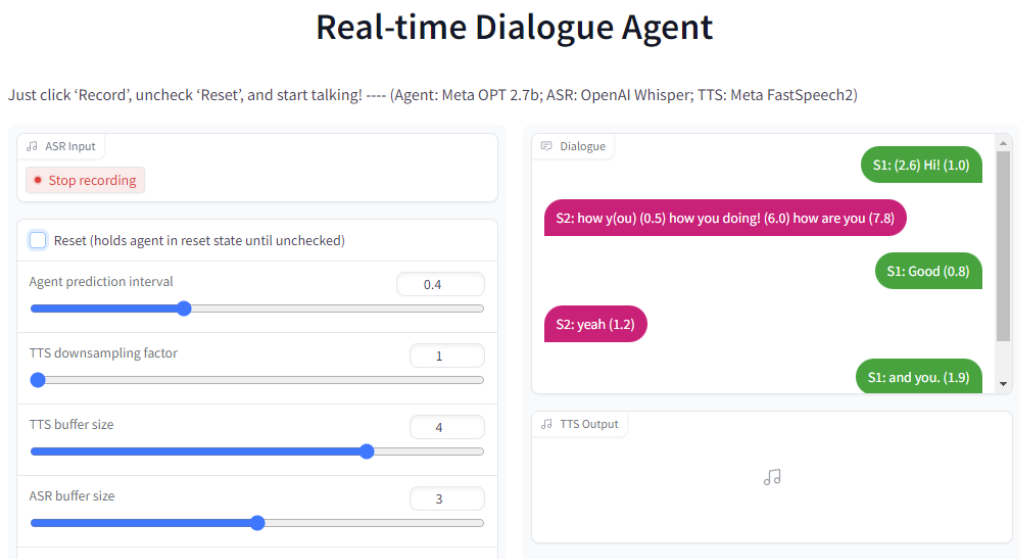
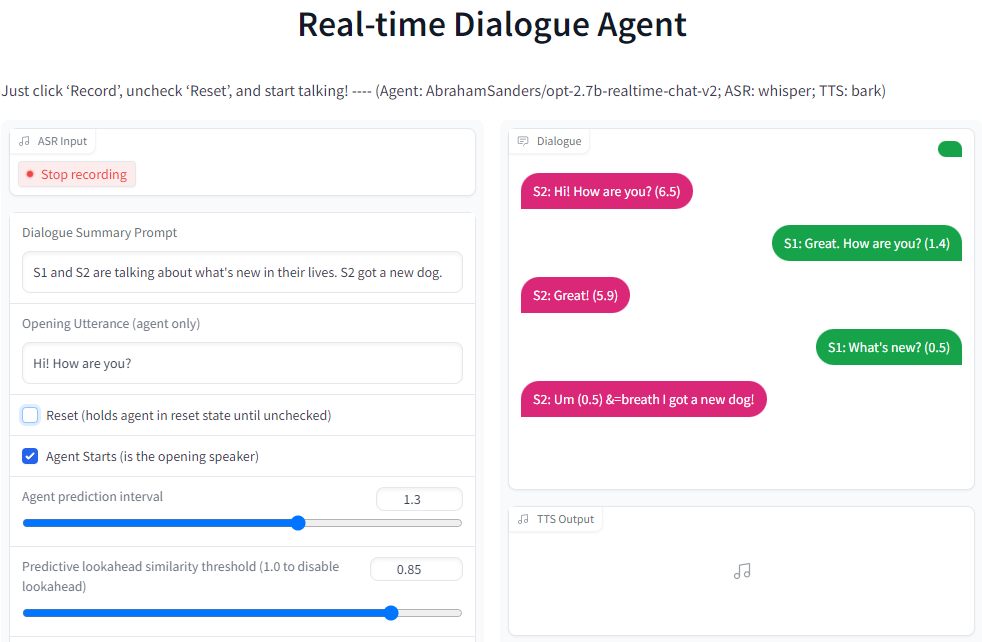
Update readme and requirements

diff --git a/README.md b/README.md
@@ -1,13 +1,15 @@
 # realtime-chatbot
-**A real-time, full-duplex conversational agent with incremental speech processing and continuous, non-hardcoded turn-taking behavior.**
+**A Full-Duplex Open-Domain Dialogue Agent with Continuous Turn-Taking Behavior**
+
+To reproduce results from the paper, see [Reproduce Paper Results](#reproduce-paper-results).
 
 Inspired by [Google Duplex](https://ai.googleblog.com/2018/05/duplex-ai-system-for-natural-conversation.html), this bot aims to provide an experience as close as possible to a live phone call or face-to-face conversation. Unlike Google Duplex which was designed
 for specific tasks, this is a completely open-domain system intended to converse about anything. Importantly, there are no pre-defined
 turn-taking rules - the agent is free to speak whenever it chooses and learns coordination behavior directly from the training data.
 
-- [OpenAI Whisper](https://github.com/openai/whisper) is used for Automatic Speech Recognition (ASR).
-- Meta's OPT 2.7b fine-tuned on transcribed spoken dialogue from [TalkBank](https://ca.talkbank.org/access/) is used for the dialogue agent. See the [model card](https://huggingface.co/AbrahamSanders/opt-2.7b-realtime-chat) for more details.
-- [Meta's FastSpeech2](https://huggingface.co/facebook/fastspeech2-en-200_speaker-cv4) trained on [Common Voice v4](https://commonvoice.mozilla.org/en/datasets) is used for Text to Speech (TTS).
+- [Whisper](https://github.com/openai/whisper) is used for Automatic Speech Recognition (ASR).
+- [OPT 2.7b](https://huggingface.co/facebook/opt-2.7b) fine-tuned on transcribed spoken dialogue from [TalkBank](https://ca.talkbank.org/access/) is used for the dialogue agent. See the [model card](https://huggingface.co/AbrahamSanders/opt-2.7b-realtime-chat-v2) for more details.
+- [FastSpeech2](https://huggingface.co/facebook/fastspeech2-en-200_speaker-cv4) (trained on [Common Voice v4](https://commonvoice.mozilla.org/en/datasets)) or [Bark](https://github.com/suno-ai/bark) (trained on _yet to be published_) is used for Text to Speech (TTS).
 
 ![System architecture](images/system_architecture.png)
 
@@ -16,6 +18,9 @@ turn-taking rules - the agent is free to speak whenever it chooses and learns co
 Python 3.8 or greater is required. If PyTorch is not already installed in your environment, please install 
 the appropriate configuration of PyTorch for your environment (OS, CUDA version) before proceeding - 
 see [https://pytorch.org/get-started/locally/](https://pytorch.org/get-started/locally/).
+
+If you wish to use Bark for TTS, the nightly PyTorch build (2.1.x) offers additional performance improvements. Otherwise, the latest stable release is recommended.
+See the [Bark Readme](https://github.com/suno-ai/bark#%EF%B8%8F-hardware-and-inference-speed) for more details.
 
 To clone the repo and install dependencies, run:
 ```bash
@@ -26,21 +31,42 @@ pip install -r requirements.txt
 
 ## Run Chat Interfaces
 ### Gradio Web Interface (audio + text)
-To launch the Gradio web interface, run:
+To launch the Gradio web interface, run the following. When prompted, navigate to [http://127.0.0.1:7860](http://127.0.0.1:7860):
 ```bash
 python run_gradio.py
 ```
-Then, navigate to [http://127.0.0.1:7860](http://127.0.0.1:7860). 
+By default, FastSpeech2 is used for TTS. To use Bark instead, run:
+```bash
+python run_gradio.py --tts-engine=bark
+```
 
-Running this interface will use between 16GB and 24GB of GPU RAM, depending on the selected Whisper model size.
-If you have multiple GPUs, the system will attempt to distribute the models across devices. This makes it possible to run
-the system on a machine with two 16GB GPUs - one will run the agent (OPT 2.7b) and the other will run Whisper and FastSpeech2.
-On a machine with three or more GPUs, OPT, Whisper, and FastSpeech2 will each run on their own dedicated GPU to maximize performance.
+Running this interface will use between 12GB and 24GB of GPU RAM, depending on the selected Whisper model size.
+Under default settings, it should run smoothly on a machine with a single 16GB GPU, with either FastSpeech2 or Bark, 
+however you may experience larger floor transfer offsets (response latencies) on this minimal hardware configuration.
 
-Audio input and output devices (microphone + speakers) are required. For the best experience it is recommended to use:
+If you have multiple GPUs, the system will attempt to distribute the models across devices for added performance:
+- If two GPUs are available, one will run the agent (OPT 2.7b) and the other will run Whisper and FastSpeech2 / Bark.
+- On a machine with three or more GPUs, OPT, Whisper, and FastSpeech2 / Bark will each run on their own dedicated GPU to maximize performance.
 
+Audio input and output devices (microphone + speakers) are required. There is currently no built-in echo cancellation functionality,
+so for the best experience it is recommended to use:
 - A high-quality headset.
 - Alternatively, headphones and an external microphone.
+
+#### Interface Usage:
+
+After the interface loads:
+1. Click Record to allow Gradio to begin recording audio from your microphone.
+2. [Optional] Use the `Dialogue Summary Prompt` textbox to provide a short script to help guide the topic and structure of the conversation.
+    - e.g., `"S1 and S2 are talking about what's new in their lives. S2 got a new dog."`
+    - If set to a blank string, the conversation will be completely open-ended.
+3. [Optional] Use the `Agent Starts` checkbox to determine whether the agent will start the conversation or wait for the user to speak first.
+    - If `Agent Starts` is checked, use the `Opening Utterance` textbox to provide the agent's initial utterance. If set to a blank string, the agent will be
+free to start the conversation however it chooses.
+4. [Optional] Use the `Agent Voice` dropdown (scroll to bottom of page) to select the voice used by the agent.
+    - Other options exist nearby to customize the agent's persona, such as `Agent Name`, `Agent Age`, and `Agent Gender`.
+5. Uncheck `Reset` to begin the conversation.
+6. To reset the conversation at any time, check and then uncheck `Reset`.
 
 ![Gradio web interface](images/gradio_interface.png)
 
@@ -49,7 +75,8 @@ To launch the terminal interface, run:
 ```bash
 python run_chat.py
 ```
-Running this interface will use between 12GB and 15GB of GPU RAM and should run smoothly on a machine with a single 16GB GPU.
+
+The purpose of the terminal interface is to provide a simple way to test the agent model in a text-only environment without the added complexity of ASR and TTS.
 
 Keyboard input into the terminal input is processed in real-time to emulate continuous speech input.
 While you type, words are submitted to the agent after `space` or `enter` are pressed.
@@ -57,12 +84,23 @@ While you type, words are submitted to the agent after `space` or `enter` are pr
 - Type `--reset` to clear the dialogue history and start over.
 - Type `--exit` to quit.
 
-![Gradio web interface](images/terminal_interface.png)
+![Terminal interface](images/terminal_interface.png)
 
-### Training
+## Reproduce Paper Results
+To reproduce the results in tables 4 & 5 in the paper:
+1. Ensure `data/dataset_test.txt` exists (details on obtaining this TBD due to TalkBank corpora licenses)
+2. Run the evaluation script:
+```bash
+python run_evals.py > eval_results_all.txt
+```
+This will run evaluation on all available GPUs using multiprocessing. On 4 GPUs with 48GB of memory each, this should take about ~13 hours.
+On smaller GPUs, lower the `--batch-size` and `--contrastive-batch-size` as needed.
+The results from table 4 will be saved to `evals_output_ppl_all.csv` and the results from table 5 will be saved to `evals_output_pred_all_all.csv`.
+
+## Training
 To train an agent model, first prepare the dataset and then run the HuggingFace trainer. Scripts are provided for both.
 
-#### Prepare the dataset
+### Prepare the dataset
 This script downloads, pre-processes and formats talkbank conversational corpora into text files for training, also handling separation into train, dev, and test splits. Simply run:
 ```bash
 python prep_datast.py
@@ -75,7 +113,7 @@ command line options:
 python prep_datast.py --help
 ```
 
-#### Train an agent model
+### Train an agent model
 The [train.py](train.py) script is a modified copy of [HuggingFace's run_clm.py script](https://github.com/huggingface/transformers/blob/v4.24.0/examples/pytorch/language-modeling/run_clm.py), adapted to use with line-by-line text file datasets that require 
 padding each example instead of chunking them into fixed size blocks.
 
